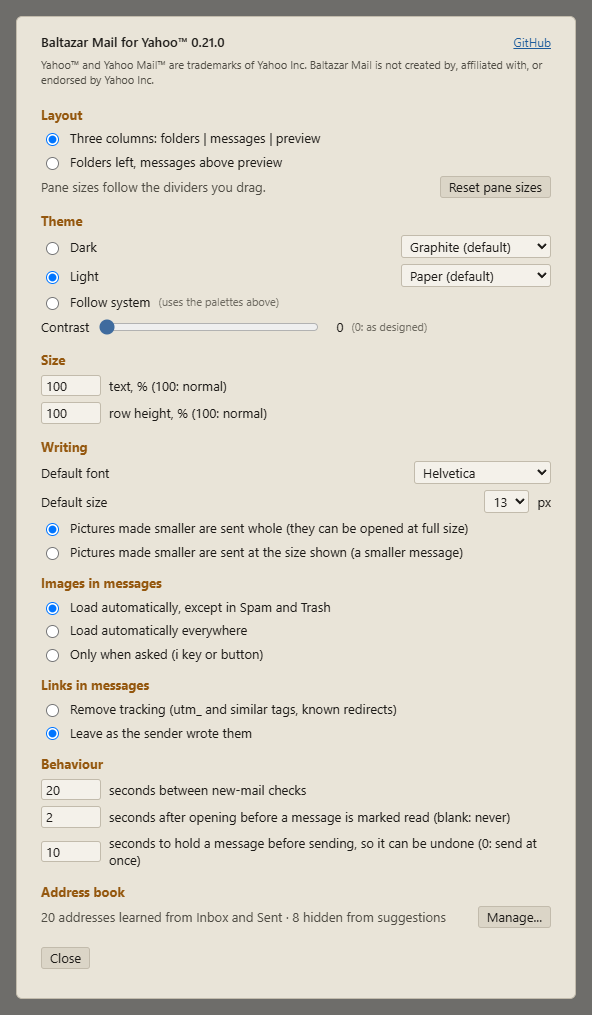
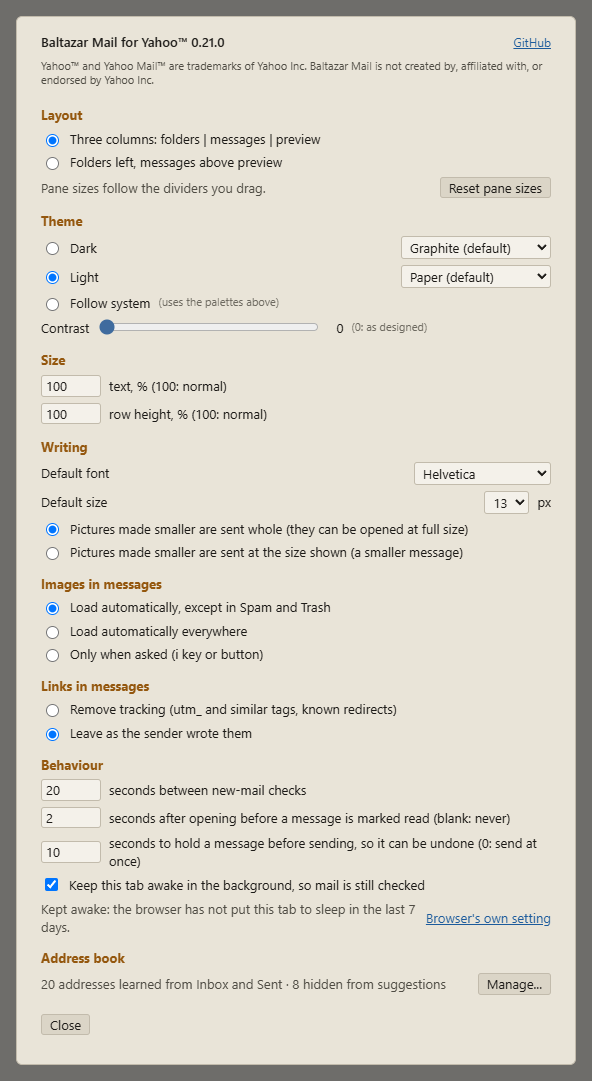
Shorten the README to what a new reader needs
At about 3,000 words it was not being read. It now gives the pitch, what sets the client apart, and the install steps; the full feature descriptions and the install details moved to docs/features.md and docs/install.md. The build internals and the empty bug list are dropped. The Settings pictures show the keep-awake rows.

diff --git a/README.md b/README.md
@@ -1,87 +1,54 @@
 # Baltazar Mail
 
-A fast, ad-free mail client packaged as a Chromium (Edge/Chrome) extension, in two editions that share their code and can be installed side by side:
+A fast, ad-free mail client for Yahoo Mail™ and Gmail™, as an extension for Chrome, Edge and other Chromium browsers. It comes in two editions, which can be installed side by side:
 
-- **Baltazar Mail**, for Yahoo Mail™. It reuses the Yahoo™ sign-in already present in the browser and talks to the same API that Yahoo's own web client uses, so it is as quick as the official UI without any of its clutter. Its page and tab show it as Baltazar Mail for Yahoo.
-- **Baltazar Mail for Gmail™**. It signs in with your Google™ account through a Google client of your own, which its sign-in page helps you make in about two minutes, once, and talks to the Gmail API; labels appear as folders, All Mail stands in for the archive.
+- **Baltazar Mail**, for Yahoo™, uses the Yahoo sign-in already in your browser. There is nothing to set up.
+- **Baltazar Mail for Gmail** signs in with your Google™ account. Its sign-in page guides you through a one-time setup of about two minutes.
 
-Everything works with the mouse; press `?` in the app for keyboard shortcuts.
-
-Baltazar Mail is an independent project by [Baltazar Studios](https://baltazarstudios.com). Yahoo and Yahoo Mail are trademarks of Yahoo Inc., and Gmail and Google are trademarks of Google LLC. Baltazar Mail and Baltazar Mail for Gmail are not created by, affiliated with, or endorsed by Yahoo Inc. or Google LLC.
+No server, no analytics, no ads: your mail goes only between your browser and your mail service.
 
 ![Baltazar Mail in the light theme: folders, message list and preview, with photo attachments listed under the message](docs/screenshots/light.png)
 
 ## Features
 
-- **Reading:** three-column or stacked layout with resizable panes, sixteen palettes, eight light and eight dark in a range of hues and mostly in light and dark pairs (two of them plain black and white), a contrast slider, one text size setting that scales the whole interface and the message, a zoom for the message pane alone, read or written, shown for a moment over the pane (+, - and 0, Ctrl+= / Ctrl+- / Ctrl+0 in the composer, or Ctrl+wheel over it), a row height setting, a Starred view across all folders but Spam and Trash, and remote images loaded automatically except in Spam and Trash. In a dark theme messages are darkened to match, keeping their colours' hues and leaving images alone; the ☀ button in the message header shows them in their original colours instead.
-- **Links:** Settings › Links in messages can remove tracking from the links in mail (off by default). Tags such as `utm_source`, `fbclid`, `mc_eid` and `_hsenc` are dropped, and a redirect that carries its destination (Google, YouTube, Facebook, Instagram, Outlook SafeLinks, Substack) is replaced by that destination, also cleaned. It applies to the reader, printing, HTML attachments and the quote in a reply or forward, so a forwarded newsletter does not hand on your subscriber id; links you paste into your own message are left as they are. It is done without any request, so a link through a mailing service's own click tracker (Mailchimp, SendGrid and most others), whose destination is not in the link, stays as it is: finding out where it goes would mean visiting it, which is the click it records. Changing the setting redraws the open message, so a link the cleaning broke can be had as the sender wrote it.
-- **Mailbox actions:** read/unread, star, archive, move, delete, spam and not spam, on one message or a selection (click, Shift-click for a range, Ctrl-click for single rows), with multi-level undo and redo. A trash icon beside each row's date deletes it without opening it. The reader has its own Delete button, for the open message alone; for a message in Trash it reads Undelete and moves it to Inbox without asking. Right-click a message for these and for Reply, Reply all, Forward and Find all from, with each shortcut shown.
-- **Folders:** right-click a folder to create a subfolder, rename, move or delete it (only when it and its subfolders are empty), or mark it all read; right-click Trash or Spam to empty it. The Folders heading above your own folders creates top-level folders and opens or closes the first level of subfolders; a double click opens or closes one folder. Subfolders of Inbox are shown under Inbox, as Yahoo files them.
-- **Search:** scoped to the open folder and its subfolders, with matches in other folders (Spam and Trash aside) listed below a divider. Words must all match; `AND`, `OR`, `NOT` (or a leading `-`), parentheses, quoted phrases and the fields `from:` `to:` `subject:` `has:attachment` `is:starred` `is:read` `is:unread` `after:` `before:` refine it. The `?` in the search box explains the syntax.
-- **Writing:** new message, reply, reply all and forward (with the original's attachments), drafts saved automatically, rich-text or plain-text editing with fonts, sizes and colours, pasted or dropped inline images, attachments, and undo-send. Click a picture in the message to size it (Small, Medium, Large, Original, or drag its corner) or delete it (Ctrl+Z brings it back). A picture made smaller is sent whole, as Gmail and Outlook do, so it can be opened at full size; Settings › Writing can send it at the size shown instead, for a smaller message (twice the shown width, so it stays sharp on high-density screens; GIFs go whole to keep their animation, and drafts always keep the whole picture).
-- **Address book:** built from your own Inbox and Sent headers, with autocomplete ranked by how recently you wrote to or heard from each person. Automated senders you never wrote to (noreply, notifications, bulk-mail domains) are left out of suggestions. Settings › Address book lists it with a filter and hide/restore, also in bulk.
-- **Attachments:** listed under the message and previewed in place: PDF with selectable text and zoom, Word, Excel and other spreadsheets, PowerPoint, older Word, RTF and OpenDocument text and slides through Yahoo's converter, images, text and code, CSV, HTML, audio, video and ZIP listings. Anything else up to 100 KB can be read as text, or as a hex dump when it is binary.
-- **Also:** a red dot on the tab icon and toolbar button when new mail arrives while the tab is in the background, or arrived while the browser was closed and the tab opens in the background (handy for a pinned tab), contact cards (right-click a message › About sender..., or hover an address in the message header) with the person's recent messages, each opening in its folder, printing, anything that failed shown in a bar under the top bar (with details to copy for a bug report), and all settings kept between sessions.
+Everything a mail client does, and:
 
-Attachments open in place, here a two-page PDF with selectable text and zoom; photos, Office documents and spreadsheets open the same way:
+- **Attachments open in place:** PDF, Office documents, spreadsheets, pictures and ZIP listings, without downloading.
+- **Sixteen light and dark palettes**, with a dark mode that darkens the messages to match.
+- **Undo for everything:** several levels of undo and redo for mailbox actions, and undo-send.
+- **Tracking removed from links**, when you switch it on.
+- **A new-mail dot** on the tab and the toolbar button, handy for a pinned tab.
+- **Keyboard shortcuts** throughout; press `?` in the app.
+
+[docs/features.md](docs/features.md) describes every feature, and what differs in the Gmail edition.
 
 ![Attachment viewer showing a PDF review document over the message](docs/screenshots/viewer.png)
 
-The dark theme with the message list above the preview; the message is darkened to match:
-
 ![Dark theme with the message list above the preview and a darkened message](docs/screenshots/dark.png)
-
-Settings:
 
 ![Settings: layout, theme with palettes and contrast, size, writing, images, links, behaviour and the address book](docs/screenshots/settings.png)
 
-All names, addresses and messages in these screenshots are invented; `node tools/screenshots.js` regenerates them.
-
-### Gmail: what differs
-
-The Gmail edition has the same interface and the same features, with these differences that come from Gmail itself: Gmail's labels are the folders (a message with no label is in All Mail, and Archive moves it there); a move takes the message out of the folder it is shown in and keeps its other labels, also in Trash and Spam, and undo puts back exactly what the move changed; Spam and Trash are Gmail's; Mark all read, Empty Trash and Empty Spam work on the label, 100,000 messages at a time; renaming a folder renames the labels nested under it. There is no document converter, so PowerPoint, Keynote, older Word, RTF and OpenDocument text and slides offer Download (and, up to 100 KB, a text or hex view) instead of a preview (PDF, Word .docx, spreadsheets of every kind, images, text and ZIP preview as before). Images in messages load straight from the senders' servers when the setting allows, since Gmail's API hands over the message as the sender wrote it (see [PRIVACY.md](PRIVACY.md)). Gmail's API has a quota per user (by default 6,000 units a minute, where a list of 100 messages costs about 500), so the extension paces its requests and builds the address book over time: starting two minutes after the mailbox first opens, it reads the newest 2,000 messages of each of Inbox and Sent a little at a time, only once you have left the app alone for a minute (or its tab is in the background), which adds up to about 40 minutes and carries on across sessions; until it is done, address suggestions come from what has been read so far. How the adapter maps Gmail onto the client is in `docs/gmail-api.md`.
+All names, addresses and messages in these screenshots are invented.
 
 ## Install
 
-**Baltazar Mail** (Yahoo Mail): in Chrome, install [Baltazar Mail from the Chrome Web Store](https://chromewebstore.google.com/detail/baltazar-mail/kkphbfhheikioedcgnjmeldabekdcnib); in Microsoft Edge, install [Baltazar Mail from Microsoft Edge Add-ons](https://microsoftedge.microsoft.com/addons/detail/baltazar-mail/fmfafokapbejponlbknighiecagfcnai). Either store keeps it up to date. Be signed in to mail.yahoo.com in the same browser profile, then click the Baltazar Mail toolbar icon.
+**Yahoo, from a store:** install Baltazar Mail from the [Chrome Web Store](https://chromewebstore.google.com/detail/baltazar-mail/kkphbfhheikioedcgnjmeldabekdcnib) or from [Microsoft Edge Add-ons](https://microsoftedge.microsoft.com/addons/detail/baltazar-mail/fmfafokapbejponlbknighiecagfcnai). Be signed in to mail.yahoo.com in the same browser profile, then click the Baltazar Mail toolbar button.
 
-**Baltazar Mail for Gmail**, other Chromium browsers, or a release before it reaches the stores: install from a release ZIP in Chrome, Edge or another browser built on Chromium, version 147 or later:
+**Gmail, or any Chromium browser (version 147 or later), from a ZIP:**
 
-1. Download `baltazar-mail-yahoo-<version>.zip` (Yahoo) or `baltazar-mail-gmail-<version>.zip` (Gmail) from the [latest release](https://github.com/gdevic/baltazar-mail/releases/latest) and unzip it into a folder you will keep; it contains one folder, `baltazar-mail-yahoo` or `baltazar-mail-gmail`.
-2. Open `chrome://extensions` (or `edge://extensions`) and turn on Developer mode.
-3. Click Load unpacked and select that folder.
-4. Yahoo: be signed in to mail.yahoo.com in the same browser profile, then click the Baltazar Mail toolbar icon. Gmail: the extension opens its tab by itself when first loaded (later, click the Baltazar Mail for Gmail toolbar icon). Its sign-in page guides you through making a free Google client of your own ([each step, with pictures](docs/gmail-sign-in.md)), then you press Sign in with Google; Google asks for the account and the permission once, and the extension renews the sign-in silently afterwards, for that account only (Sign out, at the top of Settings, asks first, then withdraws the permission and clears the address book; the client stays, so signing in again is one press).
+1. Download `baltazar-mail-gmail-<version>.zip` or `baltazar-mail-yahoo-<version>.zip` from the [latest release](https://github.com/gdevic/baltazar-mail/releases/latest) and unzip it into a folder you will keep.
+2. Open `chrome://extensions` (or `edge://extensions`) and turn on **Developer mode**.
+3. Click **Load unpacked** and select the `baltazar-mail-gmail` or `baltazar-mail-yahoo` folder.
+4. Gmail: the extension opens its tab and guides you through the sign-in ([each step, with pictures](docs/gmail-sign-in.md)). Yahoo: be signed in to mail.yahoo.com, then click the toolbar button.
 
-A copy installed this way says in Settings when a newer release is out. To update, put the new release's files into the same folder, replacing the old ones, and click Reload on the extensions page. Windows' Extract All offers a new folder by default, so point it at the folder that contains `baltazar-mail-yahoo` (or `baltazar-mail-gmail`) and confirm replacing the files; macOS's Archive Utility never replaces files, so use `unzip -o baltazar-mail-yahoo-<version>.zip -d <that folder>` in Terminal. Loading the new release from a different folder, or removing the extension, would start over without its settings and address book. From a clone of this repository, run `node tools/build.js` and load `dist/baltazar-mail-yahoo` or `dist/baltazar-mail-gmail` the same way; after a change, build again and click Reload on the extension's card.
-
-A ZIP copy in a folder named `baltazar-mail`, from an earlier release or the original Baltazar Mail, is a different extension from one in `baltazar-mail-yahoo`: load `baltazar-mail-yahoo` with Load unpacked, set your preferences again once (its address book rebuilds itself from your mail), then remove the old copy.
-
-Moving from a ZIP install to a store copy: the store copy is a separate extension, so set your preferences again once; its address book rebuilds itself from your mail. Then remove the ZIP copy so only one toolbar button remains.
-
-**Gmail and Google's sign-in.** Google lets an app reach Gmail only through an OAuth client registered with Google, and Baltazar Mail has no server or shared client, so each user makes one of their own, free. The sign-in page walks through it step by step, with a Copy button for this copy's redirect address and a button for each page of Google's. The quick way is Google's Personal mode: one page, no review by Google and no warning, but only the account that made the client can sign in with it. The classic way, for several accounts or a work or school organization, takes a few more steps and shows Google's "unverified app" screen at each first sign-in. When a sign-in fails, the page says why and what to do, including for each error Google's own window can show. A release ZIP, and any copy built from this repository, has the extension id `enejfhgeailmbkfpdgfdlajlfhnnbafd` wherever its folder is, so its redirect address never changes. [docs/gmail-sign-in.md](docs/gmail-sign-in.md) shows each step of the sign-in page with pictures; `docs/google-setup.md` has the same guide as text, the classic setup, every error and its fix, and what a shared one-click client for a store would need.
-
-**Staying awake in the background.** A browser may put a tab you have left to sleep: Edge does it to every background tab after a set time, pinned ones included, and Chrome to a tab that works hard while Energy Saver is on. A sleeping tab cannot check for new mail until you click it, so the new-mail dot stops working. Baltazar Mail keeps its tab awake by itself while you are signed in, with nothing to set up: it holds a Web Lock, which both browsers leave awake, and asks the browser not to discard the tab, which keeps Chrome's Memory Saver from unloading it. Settings › Behaviour has the switch, on unless you turn it off (staying awake costs a little power), and says under it whether the browser put the tab to sleep in the last 7 days and for how long. The **Browser's own setting** link beside it opens the other way to stay awake: this copy's address with a Copy button, to add to the browser's own list of sites it never puts to sleep. Should a tab that was to stay awake sleep all the same, a note says so once and leads there.
-
-The same by hand in Edge, which no extension can do for you:
-
-1. Open `edge://settings/system` and find **Always keep these sites active** (older versions: "Never put these sites to sleep"). Click **Add site**.
-2. Enter `chrome-extension://<ID>/`, with the `chrome-` prefix and the trailing slash, where `<ID>` is your copy's 32-letter extension ID:
-   - Installed from Microsoft Edge Add-ons: `fmfafokapbejponlbknighiecagfcnai`, the same everywhere.
-   - Installed from a release ZIP: for the Gmail edition always `enejfhgeailmbkfpdgfdlajlfhnnbafd`, which the key in its manifest pins; for the Yahoo edition an ID Edge derives from the folder you loaded, different on each computer or folder (it stays the same when you unzip updates over the same folder). A copy you build with a `key` in `local.json` keeps the id that key pins.
-
-   Either way, the ID is in the address bar of the Baltazar Mail tab, after `chrome-extension://`, and on `edge://extensions` with Developer mode turned on.
-3. To confirm, open `edge://discards`: the Baltazar Mail row has ✗ under **Is Freezable** (its **View Reason** says why), and its **Lifecycle State** reads "hidden", never "sleeping", while the tab is in the background.
-
-To publish a release, set the version in `VERSION`, commit, and run the Release workflow from the Actions tab with a matching tag (for example `v0.18.0`). It runs every test suite, then builds the install ZIPs and the store ZIPs (`-store.zip`, with `manifest.json` at the top level) of both editions and creates the release. The two editions share one version number. The Yahoo edition's store ZIP is the package uploaded to the Chrome Web Store and Microsoft Edge Add-ons; `store/LISTING-yahoo.md` holds everything those listings need.
-
-## How the two editions are built
-
-`ext/` is the client both editions share, and `yahoo/` and `gmail/` each hold what makes it one of them: its `manifest.json`, its `icons/` (Yahoo's envelope sits on a dark square, Gmail's has no background, so the two tell apart when both are pinned), its `api.js` (the only module that knows a mail service's wire format) and its `rules.js`, the edition's part of the service worker (Yahoo's request rule; for Gmail, the mail tab opened on first install). `gmail/` also has `auth.js` for Google's sign-in, `setup.js` for the guide that sets up the user's own Google client (as data, which the shared `ext/guide.js` draws on the sign-in page), and `rfc822.js` for writing messages. `node tools/build.js` copies `ext/` to `dist/baltazar-mail-yahoo/` and `dist/baltazar-mail-gmail/` and lays each edition's folder over its copy (`node tools/build.js yahoo` or `gmail` builds one). Only the manifest is written rather than copied: it gets the version from `VERSION`, and from the edition's `local.json`, when that file exists, a `key` that pins the extension id wherever the folder is (the Gmail manifest carries its own) and, for Gmail, an OAuth client id, which spares the user the setup guide. The browser suites build without `local.json`, into `out/test/`, so they test what a release holds and leave the copy in `dist/` alone. The build refuses an edition file that would replace a shared one, and code in one edition that names the other's hosts. Each extension is put together beside its folder and brought over file by file once it has passed those checks, so a folder a browser has loaded is never empty or half built, and a build that changes nothing touches no file. Baltazar Mail relies on an undocumented Yahoo API that can change at any time; what is known about it is in `docs/yahoo-api.md`. The Gmail edition uses the documented Gmail API; `docs/gmail-api.md` says how.
+To update a ZIP copy, unzip the new release over the same folder and click **Reload** on the extensions page. [docs/install.md](docs/install.md) has the details.
 
 ## Security and privacy
 
-Each extension talks only to its mail service (Yahoo, or Google's Gmail API and sign-in), with two exceptions: a copy loaded with Load unpacked (a release ZIP or a clone) asks GitHub once a day whether a newer release exists (an hour later after a failed check), sending no cookies and nothing about you or your mail; and in the Gmail edition, images in messages load from their senders' servers when the setting allows (by default everywhere but Spam and Trash). They have no server, analytics or telemetry, and parse attachments in a sandbox with no access to your session. Details are in [SECURITY.md](SECURITY.md), including how to report a vulnerability, and in [PRIVACY.md](PRIVACY.md), including every host contacted, everything stored and every permission.
+Each extension talks only to its mail service, with two exceptions: a ZIP copy asks GitHub once a day whether a newer release exists, sending nothing about you or your mail, and in the Gmail edition images in messages load from their senders' servers when your setting allows. Attachments are read in a sandbox with no access to your session. See [SECURITY.md](SECURITY.md) and [PRIVACY.md](PRIVACY.md).
 
 ## License
 
-MIT, see [LICENSE](LICENSE). The bundled third-party libraries keep their own licences (Apache-2.0 and MIT), listed in [`ext/vendor/README.md`](ext/vendor/README.md).
+MIT, see [LICENSE](LICENSE). The bundled third-party libraries keep their own licences, listed in [`ext/vendor/README.md`](ext/vendor/README.md).
+
+Baltazar Mail is an independent project by [Baltazar Studios](https://baltazarstudios.com). Yahoo and Yahoo Mail are trademarks of Yahoo Inc., and Gmail and Google are trademarks of Google LLC. Baltazar Mail and Baltazar Mail for Gmail are not created by, affiliated with, or endorsed by Yahoo Inc. or Google LLC.

diff --git a/docs/features.md b/docs/features.md
@@ -1,0 +1,17 @@
+# Features
+
+What Baltazar Mail does, in full. The two editions, for Yahoo Mail™ and for Gmail™, share all of it; the last section says what differs in the Gmail edition. Everything works with the mouse; press `?` in the app for the keyboard shortcuts.
+
+- **Reading:** three-column or stacked layout with resizable panes, sixteen palettes, eight light and eight dark in a range of hues and mostly in light and dark pairs (two of them plain black and white), a contrast slider, one text size setting that scales the whole interface and the message, a zoom for the message pane alone, read or written, shown for a moment over the pane (+, - and 0, Ctrl+= / Ctrl+- / Ctrl+0 in the composer, or Ctrl+wheel over it), a row height setting, a Starred view across all folders but Spam and Trash, and remote images loaded automatically except in Spam and Trash. In a dark theme messages are darkened to match, keeping their colours' hues and leaving images alone; the ☀ button in the message header shows them in their original colours instead.
+- **Links:** Settings › Links in messages can remove tracking from the links in mail (off by default). Tags such as `utm_source`, `fbclid`, `mc_eid` and `_hsenc` are dropped, and a redirect that carries its destination (Google™, YouTube, Facebook, Instagram, Outlook SafeLinks, Substack) is replaced by that destination, also cleaned. It applies to the reader, printing, HTML attachments and the quote in a reply or forward, so a forwarded newsletter does not hand on your subscriber id; links you paste into your own message are left as they are. It is done without any request, so a link through a mailing service's own click tracker (Mailchimp, SendGrid and most others), whose destination is not in the link, stays as it is: finding out where it goes would mean visiting it, which is the click it records. Changing the setting redraws the open message, so a link the cleaning broke can be had as the sender wrote it.
+- **Mailbox actions:** read/unread, star, archive, move, delete, spam and not spam, on one message or a selection (click, Shift-click for a range, Ctrl-click for single rows), with multi-level undo and redo. A trash icon beside each row's date deletes it without opening it. The reader has its own Delete button, for the open message alone; for a message in Trash it reads Undelete and moves it to Inbox without asking. Right-click a message for these and for Reply, Reply all, Forward and Find all from, with each shortcut shown.
+- **Folders:** right-click a folder to create a subfolder, rename, move or delete it (only when it and its subfolders are empty), or mark it all read; right-click Trash or Spam to empty it. The Folders heading above your own folders creates top-level folders and opens or closes the first level of subfolders; a double click opens or closes one folder. Subfolders of Inbox are shown under Inbox, as Yahoo™ files them.
+- **Search:** scoped to the open folder and its subfolders, with matches in other folders (Spam and Trash aside) listed below a divider. Words must all match; `AND`, `OR`, `NOT` (or a leading `-`), parentheses, quoted phrases and the fields `from:` `to:` `subject:` `has:attachment` `is:starred` `is:read` `is:unread` `after:` `before:` refine it. The `?` in the search box explains the syntax.
+- **Writing:** new message, reply, reply all and forward (with the original's attachments), drafts saved automatically, rich-text or plain-text editing with fonts, sizes and colours, pasted or dropped inline images, attachments, and undo-send. Click a picture in the message to size it (Small, Medium, Large, Original, or drag its corner) or delete it (Ctrl+Z brings it back). A picture made smaller is sent whole, as Gmail and Outlook do, so it can be opened at full size; Settings › Writing can send it at the size shown instead, for a smaller message (twice the shown width, so it stays sharp on high-density screens; GIFs go whole to keep their animation, and drafts always keep the whole picture).
+- **Address book:** built from your own Inbox and Sent headers, with autocomplete ranked by how recently you wrote to or heard from each person. Automated senders you never wrote to (noreply, notifications, bulk-mail domains) are left out of suggestions. Settings › Address book lists it with a filter and hide/restore, also in bulk.
+- **Attachments:** listed under the message and previewed in place: PDF with selectable text and zoom, Word, Excel and other spreadsheets, PowerPoint, older Word, RTF and OpenDocument text and slides through Yahoo's converter, images, text and code, CSV, HTML, audio, video and ZIP listings. Anything else up to 100 KB can be read as text, or as a hex dump when it is binary.
+- **Also:** a red dot on the tab icon and toolbar button when new mail arrives while the tab is in the background, or arrived while the browser was closed and the tab opens in the background (handy for a pinned tab), contact cards (right-click a message › About sender..., or hover an address in the message header) with the person's recent messages, each opening in its folder, printing, anything that failed shown in a bar under the top bar (with details to copy for a bug report), and all settings kept between sessions.
+
+## Gmail: what differs
+
+The Gmail edition has the same interface and the same features, with these differences that come from Gmail itself: Gmail's labels are the folders (a message with no label is in All Mail, and Archive moves it there); a move takes the message out of the folder it is shown in and keeps its other labels, also in Trash and Spam, and undo puts back exactly what the move changed; Spam and Trash are Gmail's; Mark all read, Empty Trash and Empty Spam work on the label, 100,000 messages at a time; renaming a folder renames the labels nested under it. There is no document converter, so PowerPoint, Keynote, older Word, RTF and OpenDocument text and slides offer Download (and, up to 100 KB, a text or hex view) instead of a preview (PDF, Word .docx, spreadsheets of every kind, images, text and ZIP preview as before). Images in messages load straight from the senders' servers when the setting allows, since Gmail's API hands over the message as the sender wrote it (see [PRIVACY.md](../PRIVACY.md)). Gmail's API has a quota per user (by default 6,000 units a minute, where a list of 100 messages costs about 500), so the extension paces its requests and builds the address book over time: starting two minutes after the mailbox first opens, it reads the newest 2,000 messages of each of Inbox and Sent a little at a time, only once you have left the app alone for a minute (or its tab is in the background), which adds up to about 40 minutes and carries on across sessions; until it is done, address suggestions come from what has been read so far. How the adapter maps Gmail onto the client is in `gmail-api.md`.

diff --git a/docs/install.md b/docs/install.md
@@ -1,0 +1,46 @@
+# Installing and updating
+
+## From a store
+
+The Yahoo Mail™ edition, Baltazar Mail, is in both stores: in Chrome, install [Baltazar Mail from the Chrome Web Store](https://chromewebstore.google.com/detail/baltazar-mail/kkphbfhheikioedcgnjmeldabekdcnib); in Microsoft Edge, install [Baltazar Mail from Microsoft Edge Add-ons](https://microsoftedge.microsoft.com/addons/detail/baltazar-mail/fmfafokapbejponlbknighiecagfcnai). Either store keeps it up to date. Be signed in to mail.yahoo.com in the same browser profile, then click the Baltazar Mail toolbar icon.
+
+## From a release ZIP
+
+Baltazar Mail for Gmail™, and either edition in other Chromium browsers or before a release reaches the stores, installs from a release ZIP, in Chrome, Edge or another browser built on Chromium, version 147 or later:
+
+1. Download `baltazar-mail-yahoo-<version>.zip` (Yahoo™) or `baltazar-mail-gmail-<version>.zip` (Gmail) from the [latest release](https://github.com/gdevic/baltazar-mail/releases/latest) and unzip it into a folder you will keep; it contains one folder, `baltazar-mail-yahoo` or `baltazar-mail-gmail`.
+2. Open `chrome://extensions` (or `edge://extensions`) and turn on Developer mode.
+3. Click Load unpacked and select that folder.
+4. Yahoo: be signed in to mail.yahoo.com in the same browser profile, then click the Baltazar Mail toolbar icon. Gmail: the extension opens its tab by itself when first loaded (later, click the Baltazar Mail for Gmail toolbar icon). Its sign-in page guides you through making a free Google™ client of your own ([each step, with pictures](gmail-sign-in.md)), then you press Sign in with Google; Google asks for the account and the permission once, and the extension renews the sign-in silently afterwards, for that account only (Sign out, at the top of Settings, asks first, then withdraws the permission and clears the address book; the client stays, so signing in again is one press).
+
+## Updating a ZIP copy
+
+A copy installed this way says in Settings when a newer release is out. To update, put the new release's files into the same folder, replacing the old ones, and click Reload on the extensions page. Windows' Extract All offers a new folder by default, so point it at the folder that contains `baltazar-mail-yahoo` (or `baltazar-mail-gmail`) and confirm replacing the files; macOS's Archive Utility never replaces files, so use `unzip -o baltazar-mail-yahoo-<version>.zip -d <that folder>` in Terminal. Loading the new release from a different folder, or removing the extension, would start over without its settings and address book.
+
+## Moving from one copy to another
+
+A ZIP copy in a folder named `baltazar-mail`, from an earlier release or the original Baltazar Mail, is a different extension from one in `baltazar-mail-yahoo`: load `baltazar-mail-yahoo` with Load unpacked, set your preferences again once (its address book rebuilds itself from your mail), then remove the old copy.
+
+Moving from a ZIP install to a store copy: the store copy is a separate extension, so set your preferences again once; its address book rebuilds itself from your mail. Then remove the ZIP copy so only one toolbar button remains.
+
+## The Gmail sign-in
+
+Google lets an app reach Gmail only through an OAuth client registered with Google, and Baltazar Mail has no server or shared client, so each user makes one of their own, free. The sign-in page walks through it step by step, with a Copy button for this copy's redirect address and a button for each page of Google's. The quick way is Google's Personal mode: one page, no review by Google and no warning, but only the account that made the client can sign in with it. The classic way, for several accounts or a work or school organization, takes a few more steps and shows Google's "unverified app" screen at each first sign-in. When a sign-in fails, the page says why and what to do, including for each error Google's own window can show. A release ZIP, and any copy built from this repository, has the extension id `enejfhgeailmbkfpdgfdlajlfhnnbafd` wherever its folder is, so its redirect address never changes. [gmail-sign-in.md](gmail-sign-in.md) shows each step of the sign-in page with pictures; `google-setup.md` has the same guide as text, the classic setup, every error and its fix, and what a shared one-click client for a store would need.
+
+## Staying awake in the background
+
+A browser may put a tab you have left to sleep: Edge does it to every background tab after a set time, pinned ones included, and Chrome to a tab that works hard while Energy Saver is on. A sleeping tab cannot check for new mail until you click it, so the new-mail dot stops working. Baltazar Mail keeps its tab awake by itself while you are signed in, with nothing to set up: it holds a Web Lock, which both browsers leave awake, and asks the browser not to discard the tab, which keeps Chrome's Memory Saver from unloading it. Settings › Behaviour has the switch, on unless you turn it off (staying awake costs a little power), and says under it whether the browser put the tab to sleep in the last 7 days and for how long. The **Browser's own setting** link beside it opens the other way to stay awake: this copy's address with a Copy button, to add to the browser's own list of sites it never puts to sleep. Should a tab that was to stay awake sleep all the same, a note says so once and leads there.
+
+The same by hand in Edge, which no extension can do for you:
+
+1. Open `edge://settings/system` and find **Always keep these sites active** (older versions: "Never put these sites to sleep"). Click **Add site**.
+2. Enter `chrome-extension://<ID>/`, with the `chrome-` prefix and the trailing slash, where `<ID>` is your copy's 32-letter extension ID:
+   - Installed from Microsoft Edge Add-ons: `fmfafokapbejponlbknighiecagfcnai`, the same everywhere.
+   - Installed from a release ZIP: for the Gmail edition always `enejfhgeailmbkfpdgfdlajlfhnnbafd`, which the key in its manifest pins; for the Yahoo edition an ID Edge derives from the folder you loaded, different on each computer or folder (it stays the same when you unzip updates over the same folder). A copy you build with a `key` in `local.json` keeps the id that key pins.
+
+   Either way, the ID is in the address bar of the Baltazar Mail tab, after `chrome-extension://`, and on `edge://extensions` with Developer mode turned on.
+3. To confirm, open `edge://discards`: the Baltazar Mail row has ✗ under **Is Freezable** (its **View Reason** says why), and its **Lifecycle State** reads "hidden", never "sleeping", while the tab is in the background.
+
+## From the source
+
+From a clone of this repository, run `node tools/build.js` and load `dist/baltazar-mail-yahoo` or `dist/baltazar-mail-gmail` the same way; after a change, build again and click Reload on the extension's card.

diff --git a/SECURITY.md b/SECURITY.md
@@ -8,7 +8,7 @@ This is a one-person project; expect an acknowledgement within a few days and a 
 
 ## Supported versions
 
-Only the latest release receives fixes. Store installs are updated by the browser; for a ZIP install, put the new release's files into the same folder and click Reload on the extensions page (the README explains how).
+Only the latest release receives fixes. Store installs are updated by the browser; for a ZIP install, put the new release's files into the same folder and click Reload on the extensions page (`docs/install.md` explains how).
 
 ## What is in scope
 
